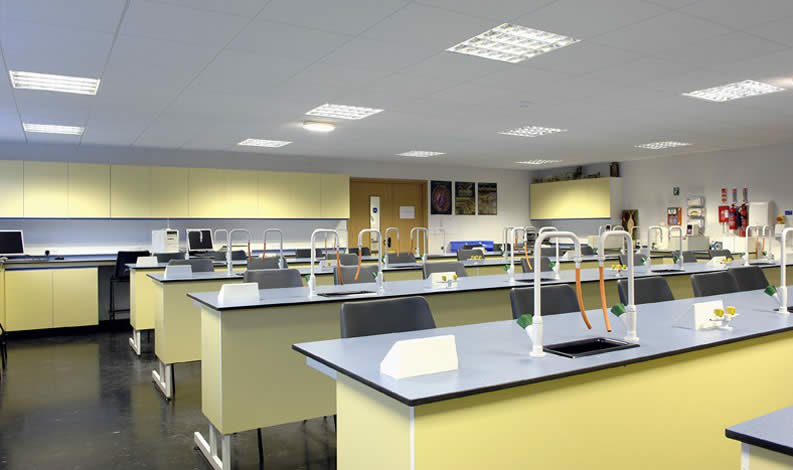
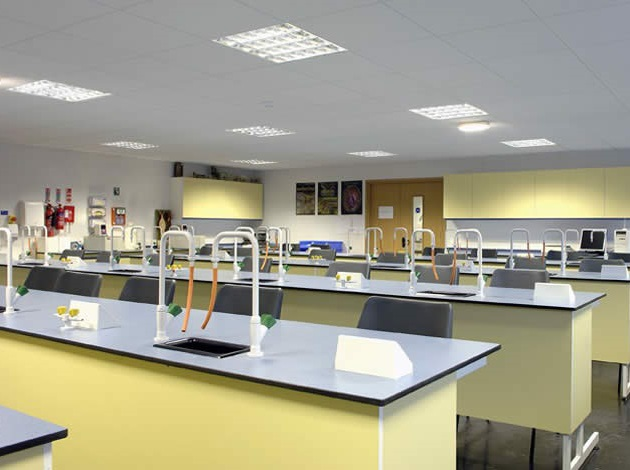
labo

diff --git a/index.html b/index.html
@@ -474,7 +474,7 @@ Site de réservation de salles
 				-->
 					<div class="grid">
 						<div class="salle element-item sallenormal " data-category="sallenormal">
-							<img onclick="window.location.href = '#salle1';" src="images/salle.jpg" alt="" /><br>
+							<img src="images/salle.jpg" alt="" /><br>
 							<p class="name">B203 Pierre Mendès</p>
 							<p class="effectif">45</p>										
 						</div> 
@@ -522,8 +522,8 @@ Site de réservation de salles
 						</div>
 						<div class="salle element-item labo " data-category="labo">
 							<a href=""></a>
-							<img src="images/labo2.jpg" alt="" /><br>
-							<p class="name">12 Sciences Po</p>
+							<img onclick="window.location.href = '#salle1';" src="images/labo3.jpg" alt="" /><br>
+							<p class="name">A12 Sciences Po</p>
 							<p class="effectif">40</p>											
 						</div>
 					</div>
@@ -536,8 +536,8 @@ Site de réservation de salles
 		
 		<!-- Exemple d'une salle avec sa photo, ses infos, et son espace commentaire -->
 			<article id="salle1">
-				<h2 class="major">J03 Stendhal</h2>
-				<span class="salle1"><img class="images" style="width:100%" src="images/salleband.jpg" alt="" /></span>
+				<h2 class="major">A12 Sciences Po</h2>
+				<span class="salle1"><img class="images" style="width:100%;" src="images/laboband.jpg" alt="" /></span>
 				<div style="width:2px; position:absolute; padding-left: 583px; padding-top: 20px;">
 					<table>
 
@@ -599,8 +599,8 @@ Site de réservation de salles
 						</tbody>
 					</table>
 				</div>
-				<h3>Informations</h3>
-				<p><i>Disponible</i><br><b>Effectif</b> : 20 places<br><b>Matériel disponible</b> : Tableau, projecteur, bureau</p>
+				<h3 style="margin-top: 10px">Informations</h3>
+				<p><i>Disponible</i><br><b>Effectif</b> : 20 places<br><b>Matériel disponible</b> : 12 microscopes de "base " à éclairage incorporé<br>12 microscopes plus perfectionnés à platine ronde<br>2 microscopes trinoculaires munis d'un dispositif de couplage avec la vidéo</p>
 				<p>Exemple d'un texte de descrition de salles, j'écris n'importe quoi pour voir ce que<br>
 				ça donne oui parce que je sais pas trop comment décrire une salle donc au final je sais<br>
 				pas si ce paragraphe est vraiment utile mais bon on verra bien. Surtout n'oubliez pas de<br>
